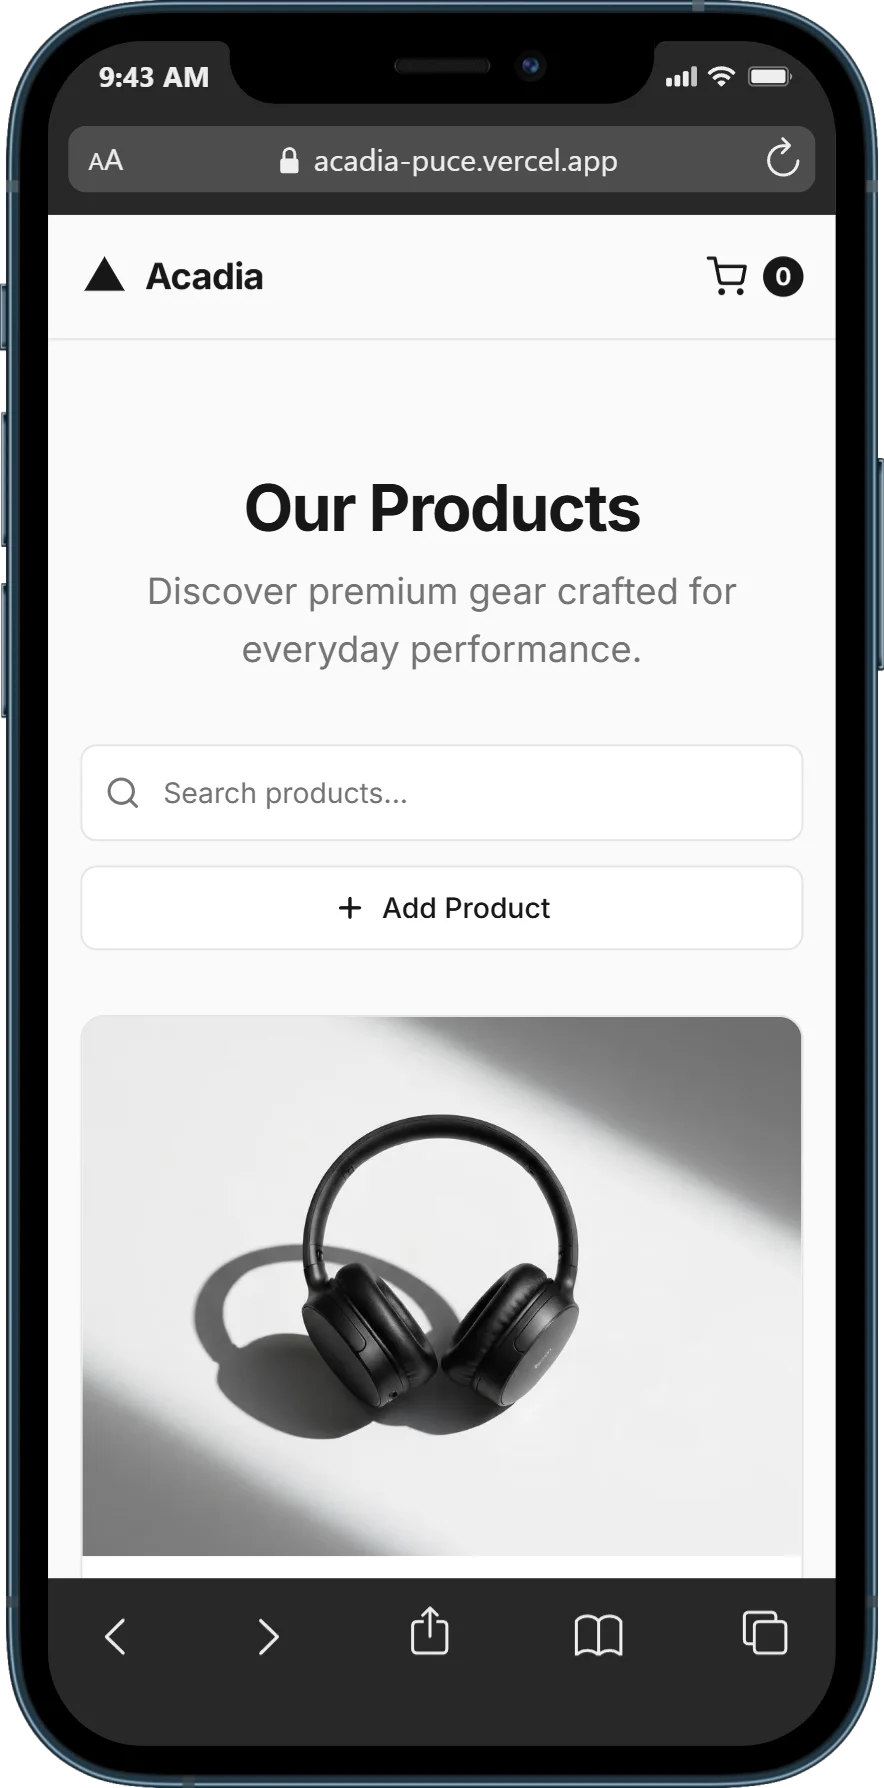
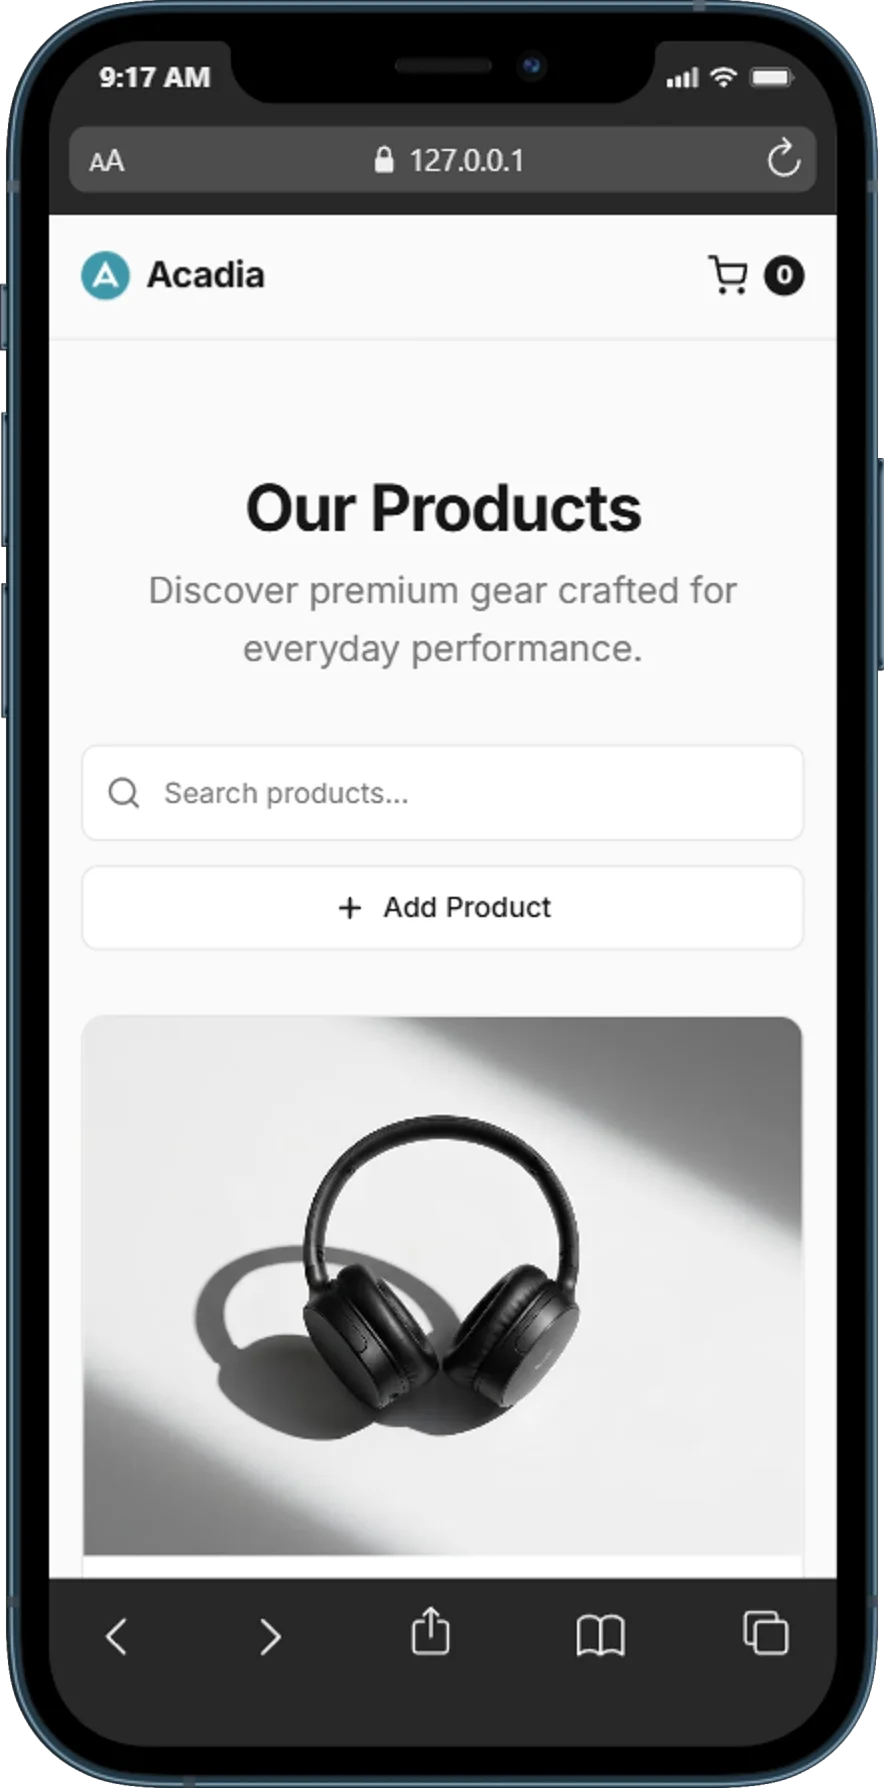
docs: update readme preview images

diff --git a/index.html b/index.html
@@ -7,6 +7,11 @@
       name="description"
       content="Acadia Products Grid — A responsive product card layout."
     />
+    <link
+      rel="shortcut icon"
+      href="https://acadia.io/wp-content/uploads/2021/08/cropped-acadia_favicon-192x192.png"
+      type="image/x-icon"
+    />
     <title>Acadia</title>
 
     <!-- CSS -->
@@ -32,17 +37,13 @@
     <header class="header" role="banner">
       <div class="header__container">
         <a href="/" class="header__logo" aria-label="Acadia home">
-          <svg
+          <img
             class="header__logo-icon"
+            src="https://acadia.io/wp-content/uploads/2021/08/cropped-acadia_favicon-192x192.png"
+            alt="Acadia logo"
             width="24"
             height="24"
-            viewBox="0 0 24 24"
-            fill="none"
-            xmlns="http://www.w3.org/2000/svg"
-            aria-hidden="true"
-          >
-            <path d="M12 2L2 19h20L12 2z" fill="currentColor" />
-          </svg>
+          />
           <span class="header__logo-text">Acadia</span>
         </a>
         <div class="header__cart" aria-live="polite">
